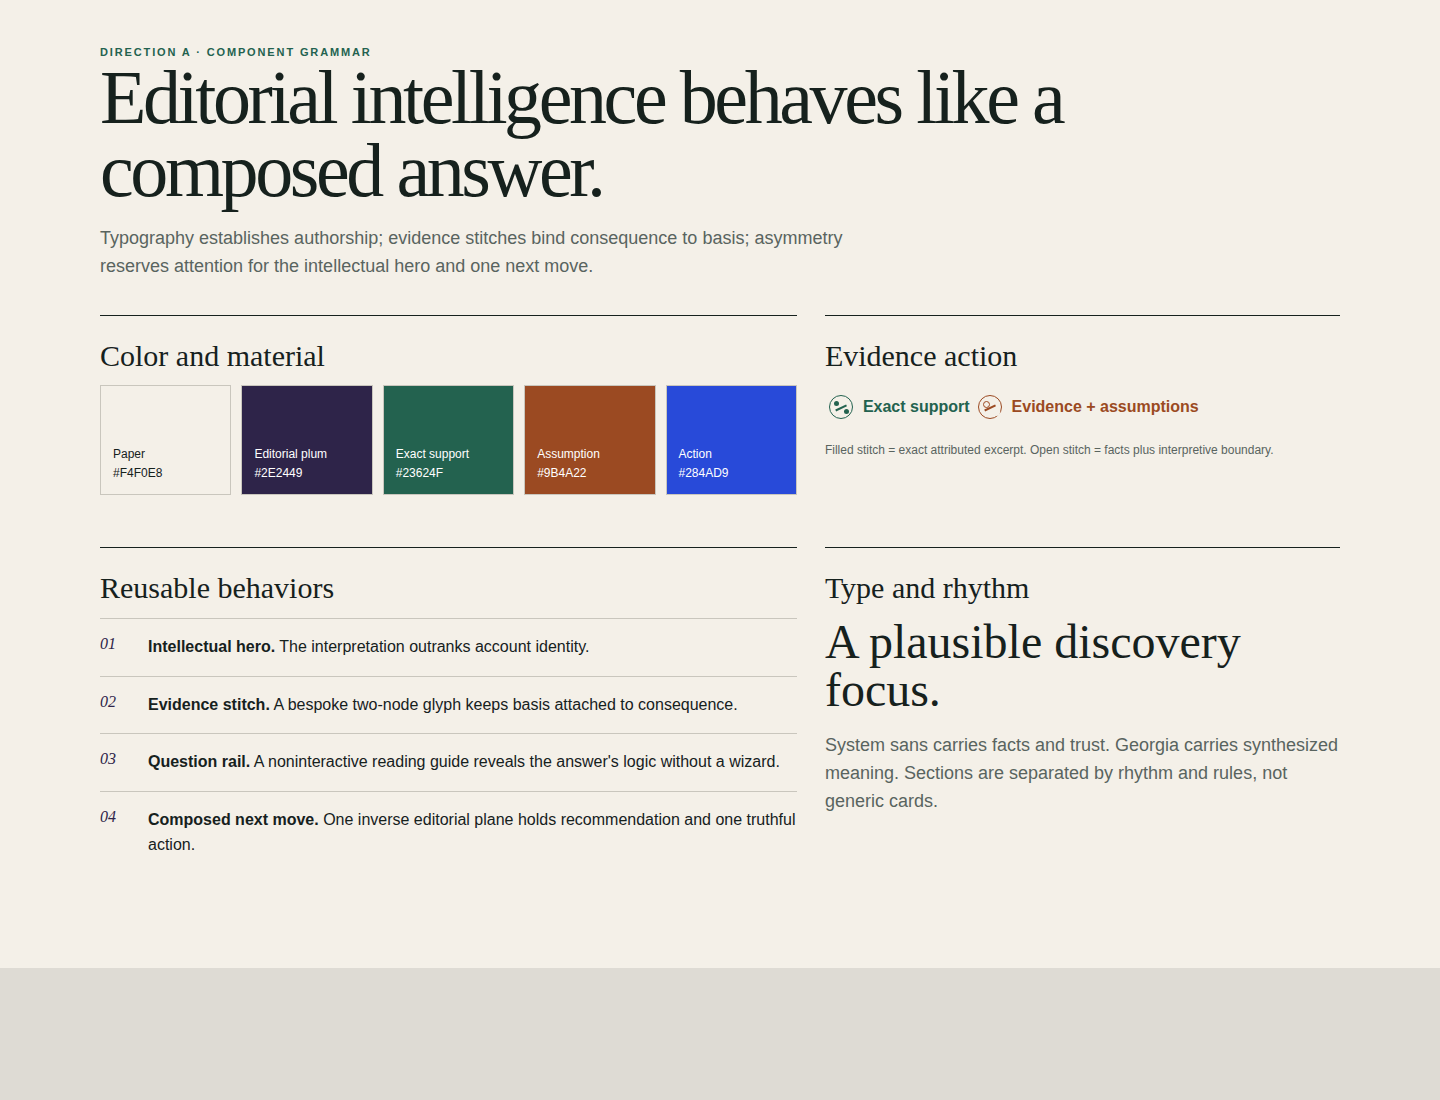
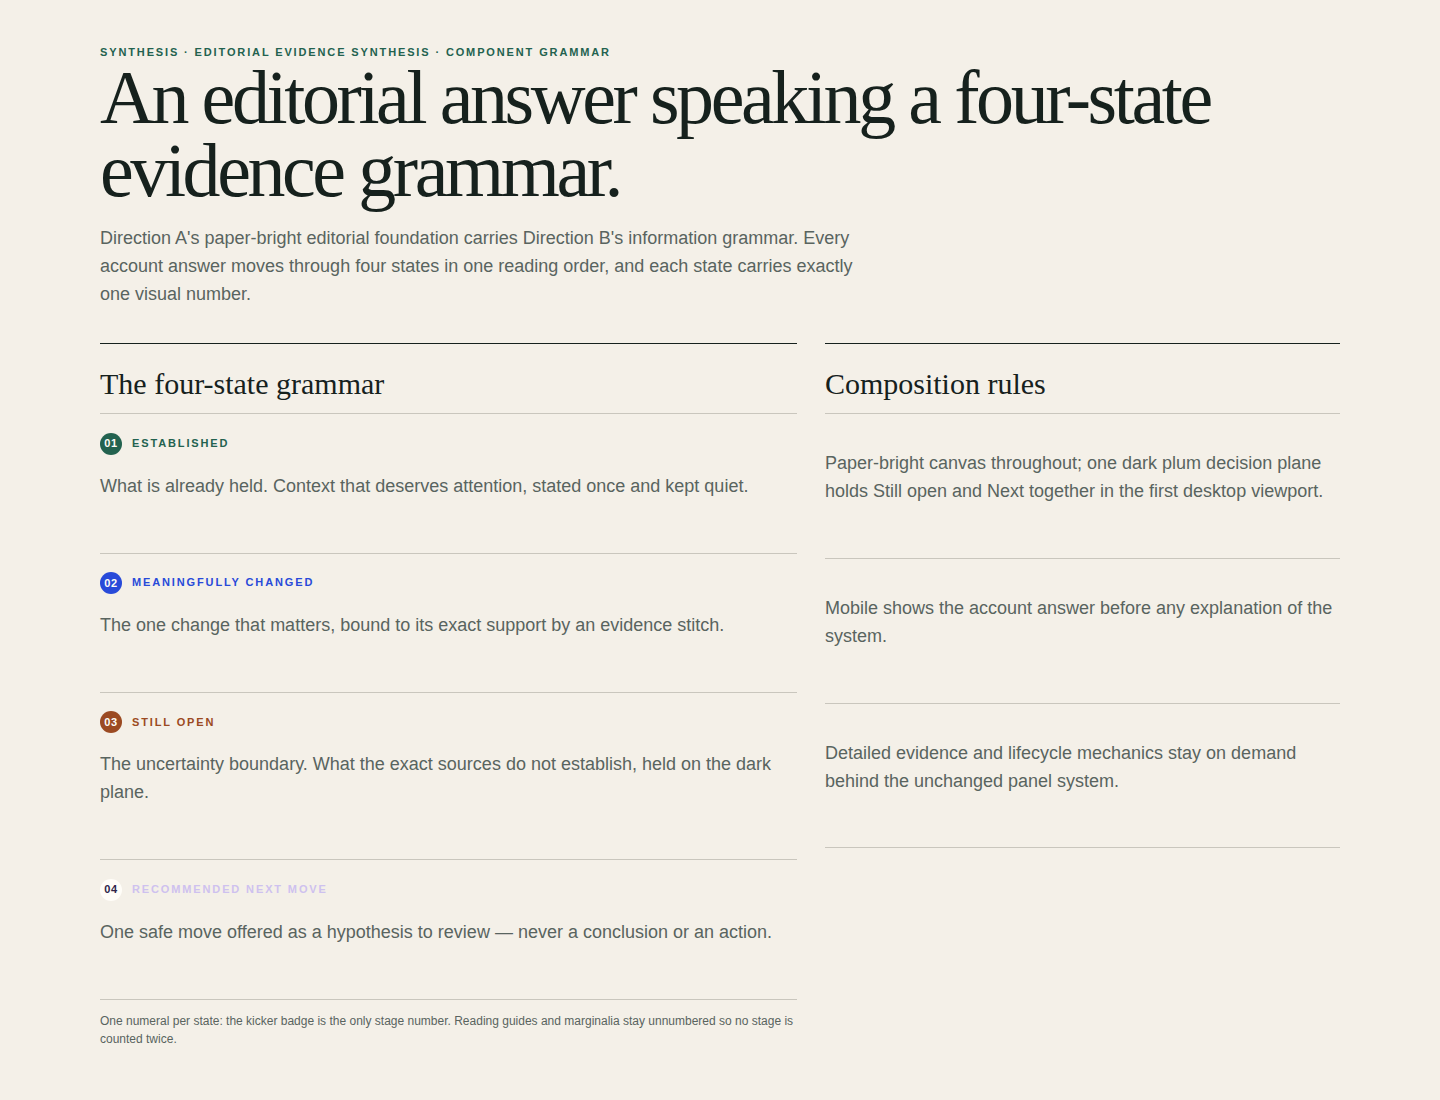
design(c1v): owner corrections — first-viewport headlines, synthesis grammar sheet, unique stage numbering
Bounded corrections to the owner-selected synthesis, direction unchanged:
1. Still open + Next headline units complete within first viewport at
   1440x1100 (bottom 1010) and 1280x900 (bottom 878), review harness
   visible; rhythm + laptop-range scale only, desktop >=1351px unchanged.
2. Grammar sheet relabeled and rewritten: documents Editorial Evidence
   Synthesis and its four-state grammar (Established / Meaningfully
   changed / Still open / Recommended next move).
3. One visual number per stage: hero marginal index and question-rail
   counter numerals removed; kicker badges 01-04 remain the only numerals.

Semantics, interactions, boundaries, and visual language preserved.
Evidence regenerated: 18 canonical screenshots, interaction GIF,
proof with firstViewport fields at owner-named viewports, manifest +
SHA256SUMS (89 files). Safety gate extended to lock all three
corrections. Local CI: typecheck + build + 2040/2040 tests + fixture
gate, all green.

diff --git a/docs/ux/c1v-production-visual-calibration/synthesis/editorial-evidence-synthesis.css b/docs/ux/c1v-production-visual-calibration/synthesis/editorial-evidence-synthesis.css
@@ -34,7 +34,7 @@ button:focus-visible, summary:focus-visible { outline: 3px solid var(--focus); o
 .product-shell { min-height: calc(100vh - 52px); border-top: 8px solid var(--plum); }
 .product-header {
   display: grid; grid-template-columns: 1fr auto; align-items: center; gap: 20px;
-  width: min(100% - 48px, 1320px); margin: 0 auto; padding: 20px 0 17px;
+  width: min(100% - 48px, 1320px); margin: 0 auto; padding: 16px 0 13px;
   border-bottom: 1px solid var(--rule);
 }
 .product-mark { margin: 0; font: 600 20px/1 var(--serif); letter-spacing: -.02em; }
@@ -42,22 +42,20 @@ button:focus-visible, summary:focus-visible { outline: 3px solid var(--focus); o
 .account-identity { display: flex; align-items: baseline; gap: 8px; margin: 0; }
 .account-identity strong { font-size: 14px; }
 .fixture-meta { color: var(--muted); font-size: 11px; letter-spacing: .08em; text-transform: uppercase; }
-main { width: min(100% - 48px, 1320px); margin: 0 auto; padding: 30px 0 68px; }
+main { width: min(100% - 48px, 1320px); margin: 0 auto; padding: 22px 0 68px; }
 .editorial-grid { display: grid; grid-template-columns: minmax(0, 1fr) 252px; gap: clamp(38px, 6vw, 92px); }
 .reading-stage { min-width: 0; }
-.intro-line { display: flex; align-items: center; gap: 16px; margin-bottom: 26px; }
+.intro-line { display: flex; align-items: center; gap: 16px; margin-bottom: 20px; }
 .intro-line::after { content: ""; height: 1px; flex: 1; background: var(--rule); }
 .kicker { margin: 0; color: var(--evidence); font-size: 11px; font-weight: 850; letter-spacing: .17em; text-transform: uppercase; }
-.insight-hero { position: relative; padding: 0 0 38px clamp(0px, 4vw, 62px); }
-.insight-index { position: absolute; left: 0; top: 8px; color: var(--assumption); font: italic 18px/1 var(--serif); }
-.insight-index::after { content: ""; display: block; width: 1px; height: 92px; margin: 12px auto 0; background: var(--assumption); }
+.insight-hero { position: relative; padding: 0 0 22px clamp(0px, 4vw, 62px); }
 .insight-hero h1 {
-  max-width: 920px; margin: 0; font: 500 clamp(48px, 6.2vw, 92px)/.95 var(--serif);
+  max-width: 920px; margin: 0; font: 500 clamp(48px, 5.1vw, 92px)/.95 var(--serif);
   letter-spacing: -.052em; text-wrap: balance;
 }
-.insight-deck { max-width: 760px; margin: 22px 0 0; color: var(--muted); font-size: clamp(17px, 1.7vw, 22px); }
-.annotation-row { display: flex; flex-wrap: wrap; align-items: center; gap: 12px 24px; margin-top: 22px; }
-.hero-action { margin-top: 20px; }
+.insight-deck { max-width: 760px; margin: 18px 0 0; color: var(--muted); font-size: clamp(17px, 1.45vw, 22px); }
+.annotation-row { display: flex; flex-wrap: wrap; align-items: center; gap: 12px 24px; margin-top: 18px; }
+.hero-action { margin-top: 18px; }
 .established-context { max-width: 640px; margin: 14px 0 0; color: var(--muted); font-size: 12px; letter-spacing: .02em; }
 .trust-quiet { margin: 0; color: var(--muted); font-size: 12px; }
 .basis-action {
@@ -71,11 +69,11 @@ main { width: min(100% - 48px, 1320px); margin: 0 auto; padding: 30px 0 68px; }
 .basis-action.assumption .basis-glyph::after { background: var(--paper); box-shadow: 10px 8px 0 var(--paper); border: 1.5px solid currentColor; }
 .change-essay {
   display: grid; grid-template-columns: minmax(0, .72fr) minmax(0, 1.28fr); gap: 34px;
-  margin: 4px 0 0 clamp(0px, 10vw, 150px); padding: 30px 0;
+  margin: 4px 0 0 clamp(0px, 10vw, 150px); padding: 22px 0;
   border-top: 1px solid var(--ink); border-bottom: 1px solid var(--rule);
 }
-.change-label h2 { margin: 7px 0 0; font: 500 clamp(28px, 3vw, 44px)/1.05 var(--serif); }
-.change-statement { margin: 0; font-size: clamp(19px, 2vw, 27px); line-height: 1.35; }
+.change-label h2 { margin: 7px 0 0; font: 500 clamp(28px, 2.45vw, 44px)/1.05 var(--serif); }
+.change-statement { margin: 0; font-size: clamp(19px, 1.7vw, 27px); line-height: 1.35; }
 .source-note { margin: 12px 0 0; color: var(--muted); font-size: 12px; }
 .next-move {
   display: grid; grid-template-columns: minmax(0, 1fr); gap: 28px; align-items: end;
@@ -93,10 +91,9 @@ main { width: min(100% - 48px, 1320px); margin: 0 auto; padding: 30px 0 68px; }
 }
 .question-rail { align-self: start; padding-top: 42px; }
 .question-rail h2 { margin: 0 0 20px; color: var(--muted); font-size: 11px; letter-spacing: .16em; text-transform: uppercase; }
-.question-list { margin: 0; padding: 0; list-style: none; counter-reset: q; }
-.question-list li { position: relative; padding: 18px 0 18px 44px; border-top: 1px solid var(--rule); color: var(--muted); font-size: 14px; }
+.question-list { margin: 0; padding: 0; list-style: none; }
+.question-list li { padding: 18px 0; border-top: 1px solid var(--rule); color: var(--muted); font-size: 14px; }
 .question-list li:last-child { border-bottom: 1px solid var(--rule); }
-.question-list li::before { counter-increment: q; content: "0" counter(q); position: absolute; left: 0; top: 18px; color: var(--plum); font: italic 15px/1 var(--serif); }
 .question-list strong { display: block; color: var(--ink); font-weight: 750; }
 .page-trust { margin: 24px 0 0 clamp(0px, 4vw, 62px); color: var(--muted); font-size: 12px; }
 .evidence-panel {
@@ -140,9 +137,8 @@ main { width: min(100% - 48px, 1320px); margin: 0 auto; padding: 30px 0 68px; }
   .editorial-grid { grid-template-columns: 1fr; gap: 20px; }
   .question-rail { padding-top: 10px; }
   .question-list { display: grid; grid-template-columns: repeat(4, 1fr); border-top: 1px solid var(--rule); border-bottom: 1px solid var(--rule); }
-  .question-list li { padding: 12px 8px 12px 28px; border: 0; }
+  .question-list li { padding: 12px 8px; border: 0; }
   .question-list li:last-child { border: 0; }
-  .question-list li::before { top: 13px; }
   .change-essay { margin-left: 0; }
   .next-move { margin-left: 0; }
   .page-trust { margin-left: 0; }
@@ -154,8 +150,6 @@ main { width: min(100% - 48px, 1320px); margin: 0 auto; padding: 30px 0 68px; }
   .product-header { padding-top: 14px; }
   main { padding-top: 18px; }
   .insight-hero { padding-left: 0; }
-  .insight-index { position: static; display: inline-flex; align-items: center; gap: 10px; margin-bottom: 10px; }
-  .insight-index::after { width: 48px; height: 1px; margin: 0; }
   .insight-hero h1 { font-size: clamp(42px, 12.5vw, 62px); }
   .change-essay { grid-template-columns: 1fr; gap: 14px; padding: 22px 0; }
   .question-list { grid-template-columns: 1fr 1fr; }
@@ -284,8 +278,8 @@ body[data-capture="product"] .product-shell { min-height: 100vh; }
   grid-template-columns: minmax(0, 1fr) minmax(0, 1.35fr);
   gap: clamp(28px, 4vw, 64px);
   align-items: start;
-  margin: 26px 0 0 clamp(0px, 4vw, 62px);
-  padding: 34px 36px;
+  margin: 18px 0 0 clamp(0px, 4vw, 62px);
+  padding: 24px 36px;
   background: var(--plum);
   column-gap: clamp(28px, 4vw, 64px);
 }
@@ -307,7 +301,7 @@ body[data-capture="product"] .product-shell { min-height: 100vh; }
 }
 .decision-row .open-boundary h2 {
   margin: 10px 0 0;
-  font: 500 clamp(20px, 2vw, 28px)/1.15 var(--serif);
+  font: 500 clamp(20px, 1.7vw, 28px)/1.15 var(--serif);
   color: #fffdf8;
 }
 .decision-row .open-boundary .open-copy { color: #e8e3f1; }
@@ -321,7 +315,7 @@ body[data-capture="product"] .product-shell { min-height: 100vh; }
 .decision-row .next-move h2 {
   margin: 0;
   max-width: 560px;
-  font: 500 clamp(26px, 2.9vw, 42px)/1.04 var(--serif);
+  font: 500 clamp(26px, 2.4vw, 42px)/1.04 var(--serif);
   letter-spacing: -.03em;
   color: #fffdf8;
 }
@@ -347,9 +341,19 @@ body[data-capture="product"] .product-shell { min-height: 100vh; }
   font: italic 500 13px/1.5 var(--serif);
 }
 
-/* --- first-viewport target: decision plane top within 1100px on desktop --- */
-@media (min-width: 901px) {
-  .decision-row { min-height: 300px; }
+/* --- first-viewport target: Still open + Next headline units complete within
+     1440×1100 and 1280×900 (review harness included). Continuous type scale;
+     laptop-range rhythm only — desktop composition unchanged. --- */
+@media (min-width: 901px) and (max-width: 1350px) {
+  .product-header { padding: 12px 0 10px; }
+  main { padding-top: 14px; }
+  .intro-line { margin-bottom: 12px; }
+  .insight-hero { padding-bottom: 18px; }
+  .annotation-row { margin-top: 14px; }
+  .hero-action { margin-top: 14px; }
+  .change-essay { padding: 18px 0; }
+  .decision-row { margin-top: 10px; padding-top: 20px; }
+  .decision-row .next-move h2 { max-width: 620px; }
 }
 
 /* --- mobile: account answer first, grammar stacked --- */

diff --git a/docs/ux/c1v-production-visual-calibration/synthesis/grammar.html b/docs/ux/c1v-production-visual-calibration/synthesis/grammar.html
@@ -1,7 +1,17 @@
 <!doctype html>
-<html lang="en"><head><meta charset="utf-8"><meta name="viewport" content="width=device-width, initial-scale=1"><meta http-equiv="Content-Security-Policy" content="default-src 'none'; style-src 'self'; img-src 'self' data:; object-src 'none'; base-uri 'none'; form-action 'none'"><title>Synthesis grammar</title><link rel="stylesheet" href="./editorial-evidence-synthesis.css"></head>
-<body class="review-sheet grammar-a"><main class="sheet-page"><p class="kicker">Direction A · component grammar</p><h1 class="sheet-title">Editorial intelligence behaves like a composed answer.</h1><p class="sheet-intro">Typography establishes authorship; evidence stitches bind consequence to basis; asymmetry reserves attention for the intellectual hero and one next move.</p>
-<div class="grammar-grid"><section class="grammar-block"><h2>Color and material</h2><div class="token-row"><div class="token-swatch">Paper<br>#F4F0E8</div><div class="token-swatch">Editorial plum<br>#2E2449</div><div class="token-swatch">Exact support<br>#23624F</div><div class="token-swatch">Assumption<br>#9B4A22</div><div class="token-swatch">Action<br>#284AD9</div></div></section>
+<html lang="en"><head><meta charset="utf-8"><meta name="viewport" content="width=device-width, initial-scale=1"><meta http-equiv="Content-Security-Policy" content="default-src 'none'; style-src 'self'; img-src 'self' data:; object-src 'none'; base-uri 'none'; form-action 'none'"><title>Editorial Evidence Synthesis grammar</title><link rel="stylesheet" href="./editorial-evidence-synthesis.css"></head>
+<body class="review-sheet grammar-a"><main class="sheet-page"><p class="kicker">Synthesis · Editorial Evidence Synthesis · component grammar</p><h1 class="sheet-title">An editorial answer speaking a four-state evidence grammar.</h1><p class="sheet-intro">Direction A's paper-bright editorial foundation carries Direction B's information grammar. Every account answer moves through four states in one reading order, and each state carries exactly one visual number.</p>
+<div class="grammar-grid"><section class="grammar-block"><h2>The four-state grammar</h2><ol class="question-list">
+<li><p class="stage-kicker"><span class="stage-num" aria-hidden="true">01</span>Established</p><p class="sheet-intro">What is already held. Context that deserves attention, stated once and kept quiet.</p></li>
+<li><p class="stage-kicker changed"><span class="stage-num" aria-hidden="true">02</span>Meaningfully changed</p><p class="sheet-intro">The one change that matters, bound to its exact support by an evidence stitch.</p></li>
+<li><p class="stage-kicker open"><span class="stage-num" aria-hidden="true">03</span>Still open</p><p class="sheet-intro">The uncertainty boundary. What the exact sources do not establish, held on the dark plane.</p></li>
+<li><p class="stage-kicker next"><span class="stage-num" aria-hidden="true">04</span>Recommended next move</p><p class="sheet-intro">One safe move offered as a hypothesis to review — never a conclusion or an action.</p></li>
+</ol><p class="source-note">One numeral per state: the kicker badge is the only stage number. Reading guides and marginalia stay unnumbered so no stage is counted twice.</p></section>
+<section class="grammar-block"><h2>Composition rules</h2><ol class="question-list">
+<li><p class="sheet-intro">Paper-bright canvas throughout; one dark plum decision plane holds Still open and Next together in the first desktop viewport.</p></li>
+<li><p class="sheet-intro">Mobile shows the account answer before any explanation of the system.</p></li>
+<li><p class="sheet-intro">Detailed evidence and lifecycle mechanics stay on demand behind the unchanged panel system.</p></li>
+</ol></section>
+<section class="grammar-block"><h2>Color and material</h2><div class="token-row"><div class="token-swatch">Paper<br>#F4F0E8</div><div class="token-swatch">Editorial plum<br>#2E2449</div><div class="token-swatch">Exact support<br>#23624F</div><div class="token-swatch">Assumption<br>#9B4A22</div><div class="token-swatch">Action<br>#284AD9</div></div></section>
 <section class="grammar-block"><h2>Evidence action</h2><span class="basis-action"><span class="basis-glyph" aria-hidden="true"></span>Exact support</span><span class="basis-action assumption"><span class="basis-glyph" aria-hidden="true"></span>Evidence + assumptions</span><p class="source-note">Filled stitch = exact attributed excerpt. Open stitch = facts plus interpretive boundary.</p></section>
-<section class="grammar-block"><h2>Reusable behaviors</h2><ol class="behavior-list"><li><strong>Intellectual hero.</strong> The interpretation outranks account identity.</li><li><strong>Evidence stitch.</strong> A bespoke two-node glyph keeps basis attached to consequence.</li><li><strong>Question rail.</strong> A noninteractive reading guide reveals the answer's logic without a wizard.</li><li><strong>Composed next move.</strong> One inverse editorial plane holds recommendation and one truthful action.</li></ol></section>
 <section class="grammar-block"><h2>Type and rhythm</h2><p class="type-specimen">A plausible discovery focus.</p><p class="sheet-intro">System sans carries facts and trust. Georgia carries synthesized meaning. Sections are separated by rhythm and rules, not generic cards.</p></section></div></main></body></html>

diff --git a/tests/safety/c1v-production-visual-calibration.test.ts b/tests/safety/c1v-production-visual-calibration.test.ts
@@ -220,6 +220,26 @@ test("C1V synthesis artifacts are isolated, deterministic, interactive, and effe
   assert.match(html, /decision-row/u);
   assert.doesNotMatch(html, /How to read the horizon|horizon-stage|stage-grid|trust-state-strip/u);
 
+  // Correction 3 (2026-08-20 owner): each stage has exactly one visual number.
+  // The 01–04 kicker badges are the only stage numerals: no hero marginal index
+  // and no question-rail counter duplicates them.
+  assert.doesNotMatch(html, /insight-index/u);
+  assert.doesNotMatch(css, /insight-index/u);
+  assert.doesNotMatch(css, /\.question-list li::before\s*\{\s*counter-increment/u);
+  const stageNums = [...html.matchAll(/class="stage-num"[^>]*>([^<]+)</gu)].map((m) => m[1]!.trim());
+  assert.deepEqual(stageNums, ["01", "02", "03", "04"], "synthesis stage numbers 01–04 exactly once");
+
+  // Correction 2 (2026-08-20 owner): the grammar sheet documents Editorial
+  // Evidence Synthesis and its four-state grammar — not Direction A alone.
+  const grammar = await readFile(join(ROOT, SYN, "grammar.html"), "utf8");
+  assert.match(grammar, /Synthesis · Editorial Evidence Synthesis · component grammar/u);
+  assert.match(grammar, /four-state grammar/u);
+  assert.doesNotMatch(grammar, /Direction A · component grammar/u);
+  for (const state of ["Established", "Meaningfully changed", "Still open", "Recommended next move"]) {
+    assert.ok(grammar.includes(state), `synthesis grammar state: ${state}`);
+  }
+  assert.equal((grammar.match(/class="stage-num"/gu) ?? []).length, 4, "grammar sheet documents four states");
+
   const future = await readFile(join(ROOT, SYN, "future-workshop-compatibility.html"), "utf8");
   assert.match(future, /Static future Account and Workshop compatibility frame/u);
   assert.match(future, /Account \| Workshop/u);
@@ -261,6 +281,22 @@ test("C1V synthesis artifacts are isolated, deterministic, interactive, and effe
     assert.equal(scenario.minimumTouchTarget, true);
     assert.equal(scenario.trustVisible, true);
     assert.equal(scenario.statementEvidenceVisible, true);
+  }
+
+  // Correction 1 (2026-08-20 owner): the complete Still open and Next headline
+  // units sit inside the first viewport at 1440×1100 and 1280×900.
+  const foldDesktop = proof.scenarios.find((s: any) => s.label === "desktop")!;
+  const foldLaptop = proof.scenarios.find((s: any) => s.label === "laptop")!;
+  assert.ok(foldDesktop && foldLaptop, "desktop + laptop scenarios present");
+  assert.deepEqual(foldDesktop.viewport, { width: 1440, height: 1100 });
+  assert.deepEqual(foldLaptop.viewport, { width: 1280, height: 900 });
+  for (const scenario of [foldDesktop, foldLaptop]) {
+    assert.equal(scenario.firstViewport.stillOpenHeadlineComplete, true, `${scenario.label}: Still open headline complete`);
+    assert.equal(scenario.firstViewport.nextHeadlineComplete, true, `${scenario.label}: Next headline complete`);
+    assert.equal(scenario.firstViewport.bothHeadlinesComplete, true, `${scenario.label}: both headlines complete`);
+    assert.equal(scenario.firstViewport.fits, true, `${scenario.label}: headline unit fits first viewport`);
+    assert.ok(scenario.firstViewport.headlineUnitBottom <= scenario.viewport.height, `${scenario.label}: headlineUnitBottom within viewport`);
+    assert.ok(scenario.firstViewport.planeTop >= 0, `${scenario.label}: plane present`);
   }
   assert.equal(proof.evidence.correctDialog, true);
   assert.equal(proof.evidence.exactExcerptReachable, true);

diff --git a/docs/ux/c1v-production-visual-calibration/synthesis/index.html b/docs/ux/c1v-production-visual-calibration/synthesis/index.html
@@ -28,7 +28,6 @@
         <section class="reading-stage" aria-labelledby="s-editorial-insight">
           <div class="intro-line"><p class="stage-kicker"><span class="stage-num" aria-hidden="true">01</span>Established · what deserves attention</p><p class="established-context">Established context · Citrine Works is a fictional operations-software company serving regional planning teams.</p></div>
           <article class="insight-hero">
-            <span class="insight-index" aria-hidden="true">01</span>
             <h1 id="s-editorial-insight">Exception handling is a plausible discovery focus.</h1>
             <p class="insight-deck">A focused conversation could test the operating constraint without presuming demand, urgency, or a commercial next step.</p>
             <div class="annotation-row">
